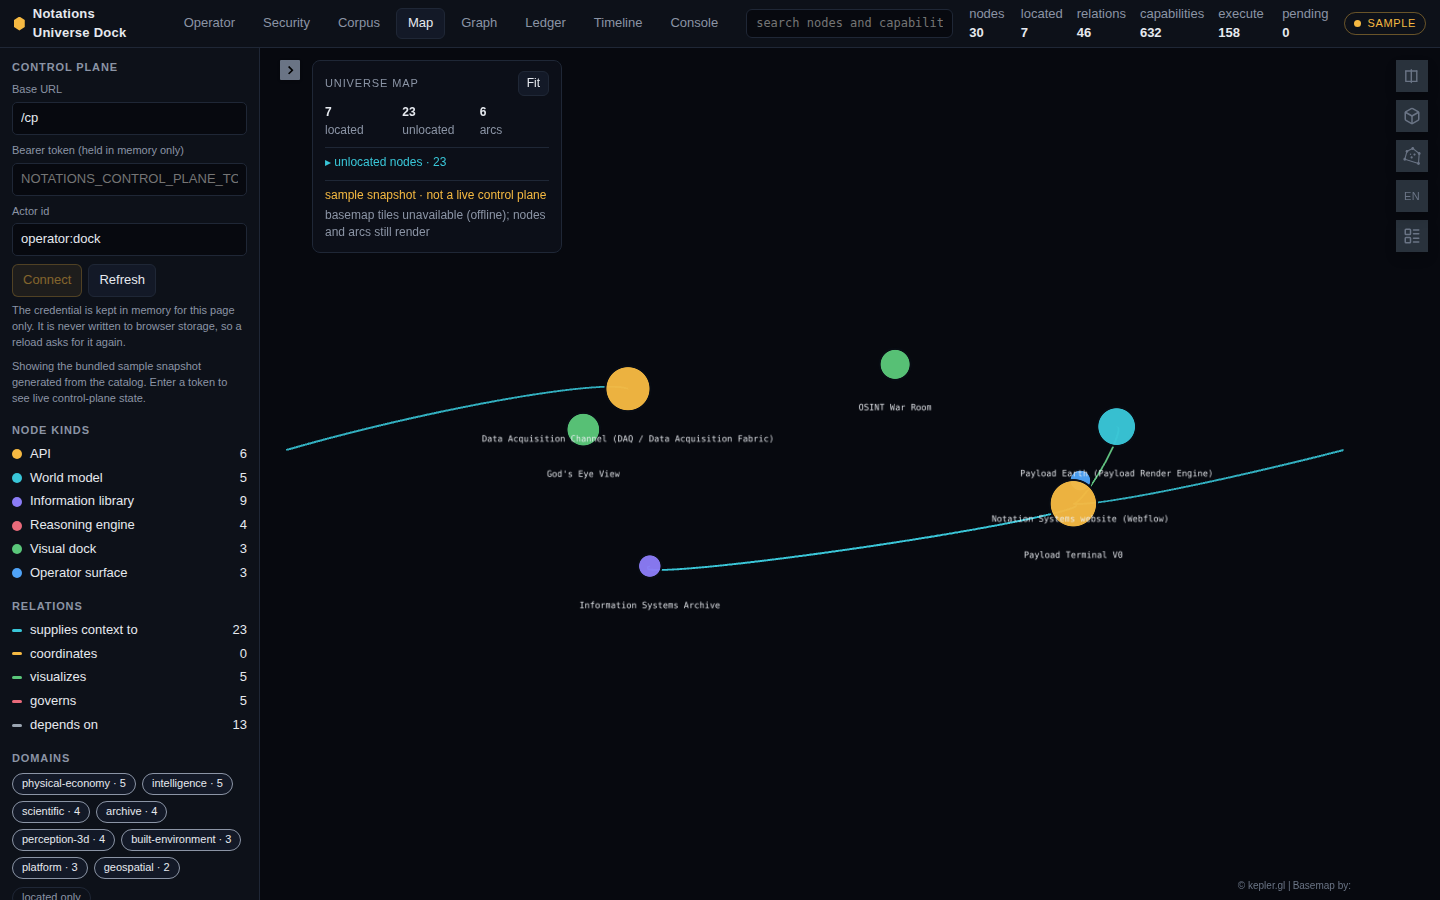
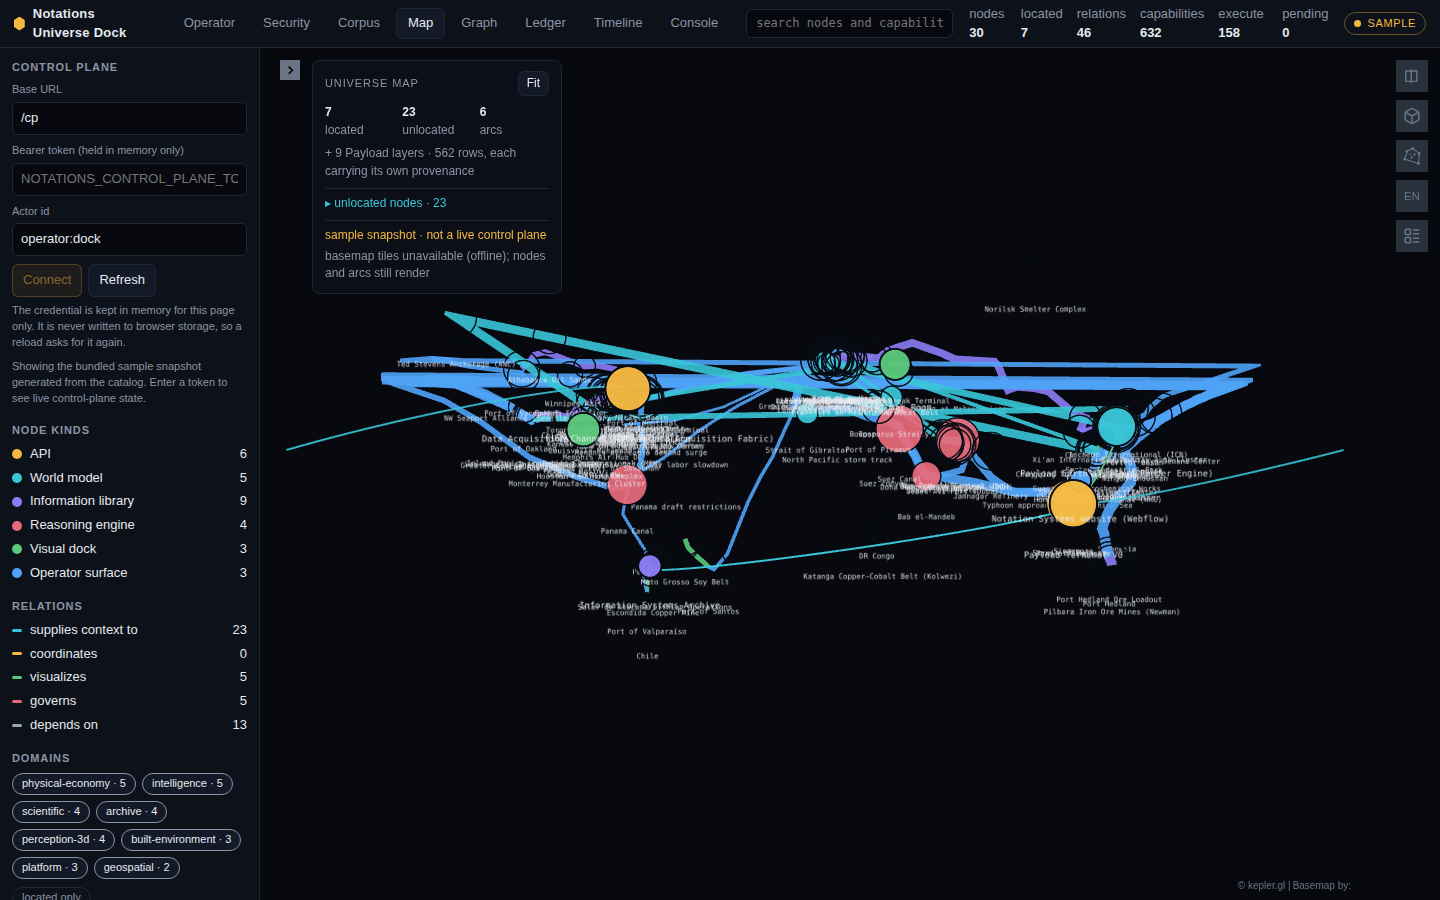
feat(dock): draw the Payload layers the map was documented as drawing
The extractors produced them — 562 rows across nine layers, each carrying
its own provenance. The sync script copied them into
`public/layers/payload/` before every dev run, build and test. The loader
that reads them, the Kepler config that styles them, the tooltip fields
that expose their provenance: all written, all tested. Nothing called any
of it. `loadPayloadLayers` and `tooltipFields` had no callers anywhere in
the tree, and MapLens built its data from the snapshot alone, while
README.md, dock/README.md and docs/PAYLOAD_FIRST.md all described a map
lens that renders facilities, corridors, chokepoints, flows, disruptions
and coverage.

So the estate's one worked example of the discipline it is built on was
built, shipped, and never seen. It draws now: 9 layers, 562 rows, and the
overlay says so. Every layer's tooltip carries `provenance`, and `known_at`
where the rows have it, so "is this real?" and "when was it knowable?" are
answered by hovering a row rather than by reading a manifest.

Absence stays graceful. A tree that has not run `npm run sync` draws the
universe and says the layers are not loaded; a manifest entry whose file
failed to load is skipped rather than drawn empty.

`LayerEntry` also gained the two fields the manifest has carried since the
provenance work — `basis` and `provenance_fields` — so the dock's type
matches the file it reads.

Verified: control-plane 40/40, ecosystem 36/36, dock 37/37, catalog 0
[…]

diff --git a/dock/test/layers.test.ts b/dock/test/layers.test.ts
@@ -1,7 +1,8 @@
 import { readFileSync } from 'node:fs';
 import path from 'node:path';
 import { describe, expect, it } from 'vitest';
-import { datasetIdFor, layerConfig, rowsToDataset, type LayerManifest, type Row } from '../src/model/layers';
+import { datasetIdFor, layerConfig, rowsToDataset, withPayloadLayers, type LayerManifest, type Row } from '../src/model/layers';
+import type { KeplerDataset } from '../src/model/kepler';
 
 const root = path.resolve(__dirname, '../../ecosystem/payload');
 const manifest = JSON.parse(readFileSync(path.join(root, 'layers.json'), 'utf8')) as LayerManifest;
@@ -34,5 +35,55 @@ describe('payload layer manifest', () => {
     const real = manifest.layers.filter((l) => l.real).map((l) => l.id);
     expect(real).toEqual(expect.arrayContaining(['comtrade-flows', 'archive-coverage', 'submarine-cables', 'nuclear-facilities']));
     expect(manifest.layers.find((l) => l.id === 'earth-facilities')?.real).toBe(false);
+  });
+});
+
+describe('folding the Payload layers into the universe map', () => {
+  const manifest = JSON.parse(readFileSync(path.resolve(__dirname, '../../ecosystem/payload/layers.json'), 'utf8')) as LayerManifest;
+
+  type Bundle = {
+    datasets: KeplerDataset[];
+    config: { version: string; config: { visState: { layers: unknown[]; interactionConfig: { tooltip: { enabled: boolean; fieldsToShow: Record<string, unknown> } } } } };
+    located: number; arcs: number; unlocated: unknown[];
+  };
+  const universe = (): Bundle => ({
+    datasets: [{ info: { id: 'universe-nodes', label: 'Nodes' }, data: { fields: [], rows: [[1]] } }],
+    config: { version: 'v1', config: { visState: { layers: [{ id: 'universe-nodes-points' }], interactionConfig: { tooltip: { enabled: true, fieldsToShow: { 'universe-nodes': [] } } } } } },
+    located: 7, arcs: 5, unlocated: [],
+  });
+  const load = (layers: LayerManifest['layers']) => ({
+    manifest,
+    datasets: new Map<string, KeplerDataset>(layers.map((l) => [l.id, { info: { id: datasetIdFor(l), label: l.name }, data: { fields: [], rows: [[1], [2]] } }])),
+  });
+
+  it('adds one Kepler layer and one dataset per loaded manifest entry', () => {
+    const folded = withPayloadLayers(universe(), load(manifest.layers));
+    expect(folded.payloadLayers).toBe(manifest.layers.length);
+    expect(folded.payloadRows).toBe(manifest.layers.length * 2);
+    expect(folded.datasets).toHaveLength(1 + manifest.layers.length);
+    expect(folded.config.config.visState.layers).toHaveLength(1 + manifest.layers.length);
+  });
+
+  it('shows every layer its provenance in the tooltip, which is what makes "is this real?" a per-row query', () => {
+    const folded = withPayloadLayers(universe(), load(manifest.layers));
+    const shown = folded.config.config.visState.interactionConfig.tooltip.fieldsToShow as Record<string, Array<{ name: string }>>;
+    for (const layer of manifest.layers) {
+      const fields = shown[datasetIdFor(layer)]!.map((f) => f.name);
+      expect(fields).toContain('provenance');
+      if (layer.provenance_fields.includes('known_at')) expect(fields).toContain('known_at');
+    }
+  });
+
+  it('draws the universe unchanged when the layers are not there', () => {
+    const bare = withPayloadLayers(universe(), null);
+    expect(bare.payloadLayers).toBe(0);
+    expect(bare.datasets).toHaveLength(1);
+    expect(bare.config.config.visState.layers).toHaveLength(1);
+  });
+
+  it('skips a manifest entry whose file failed to load rather than drawing an empty layer', () => {
+    const folded = withPayloadLayers(universe(), load([manifest.layers[0]!]));
+    expect(folded.payloadLayers).toBe(1);
+    expect(folded.config.config.visState.layers).toHaveLength(2);
   });
 });

diff --git a/dock/src/model/layers.ts b/dock/src/model/layers.ts
@@ -9,7 +9,15 @@ export interface LayerEntry {
   geometry: 'point' | 'arc' | 'path' | 'polygon';
   file: string;
   provenance: string;
+  /**
+   * What the rows rest on. `real` is derived from it — a layer is real when its basis is
+   * not `synthetic` — rather than asserted beside it, because a boolean forced curated
+   * data to claim to be a capture.
+   */
+  basis: 'capture' | 'manifest' | 'curated' | 'synthetic';
   real: boolean;
+  /** Which row provenance fields this layer's rows actually carry. */
+  provenance_fields: string[];
   default_visible: boolean;
   time_field?: string;
   kepler: {
@@ -111,4 +119,49 @@ export async function loadPayloadLayers(base = `${import.meta.env.BASE_URL}layer
     } catch (e) { errors.push(`${layer.id}: ${(e as Error).message}`); }
   }));
   return { manifest, datasets, errors };
+}
+
+/**
+ * Fold the Payload layers into a universe map bundle.
+ *
+ * The extractors have always produced these — 562 rows across nine layers, each carrying
+ * its own provenance — the sync script has always copied them into `public/layers/payload/`,
+ * and `loadPayloadLayers` has always been able to read them. Nothing called it. The Map
+ * lens drew nodes and relation arcs while three documents said it drew the Payload
+ * layers, so the estate's one worked example of per-row provenance was built, shipped and
+ * never seen.
+ *
+ * Every layer's tooltip carries `provenance`, and `known_at` where the rows have it, so
+ * "is this real?" and "when was it knowable?" are answerable by hovering a row rather
+ * than by reading a manifest.
+ */
+export function withPayloadLayers<T extends { datasets: KeplerDataset[]; config: { config: { visState: { layers: unknown[]; interactionConfig: { tooltip: { fieldsToShow: Record<string, unknown> } } } } } }>(
+  bundle: T,
+  loaded: { manifest: LayerManifest; datasets: Map<string, KeplerDataset> } | null,
+): T & { payloadLayers: number; payloadRows: number } {
+  if (!loaded || !loaded.datasets.size) return { ...bundle, payloadLayers: 0, payloadRows: 0 };
+  const present = loaded.manifest.layers.filter((layer) => loaded.datasets.has(layer.id));
+  const datasets = present.map((layer) => loaded.datasets.get(layer.id)!);
+  const fieldsToShow: Record<string, unknown> = { ...bundle.config.config.visState.interactionConfig.tooltip.fieldsToShow };
+  for (const layer of present) fieldsToShow[datasetIdFor(layer)] = tooltipFields(layer);
+  return {
+    ...bundle,
+    datasets: [...bundle.datasets, ...datasets],
+    config: {
+      ...bundle.config,
+      config: {
+        ...bundle.config.config,
+        visState: {
+          ...bundle.config.config.visState,
+          layers: [...bundle.config.config.visState.layers, ...present.map((layer) => layerConfig(layer))],
+          interactionConfig: {
+            ...bundle.config.config.visState.interactionConfig,
+            tooltip: { ...bundle.config.config.visState.interactionConfig.tooltip, fieldsToShow },
+          },
+        },
+      },
+    },
+    payloadLayers: present.length,
+    payloadRows: datasets.reduce((sum, d) => sum + d.data.rows.length, 0),
+  };
 }

diff --git a/dock/src/lenses/MapLens.tsx b/dock/src/lenses/MapLens.tsx
@@ -3,6 +3,8 @@ import { useDispatch, useSelector, useStore } from 'react-redux';
 import { KeplerGl } from '@kepler.gl/components';
 import { addDataToMap, fitBounds, removeDataset, wrapTo } from '@kepler.gl/actions';
 import { universeMapBundle } from '../model/kepler';
+import { loadPayloadLayers, withPayloadLayers, type LayerManifest } from '../model/layers';
+import type { KeplerDataset } from '../model/kepler';
 
 type MapConfig = Parameters<typeof addDataToMap>[0]['config'];
 import type { LensProps } from './types';
@@ -44,7 +46,19 @@ export function MapLens({ dock, filtered, selected, selectedNode, onSelect }: Le
     return () => ro.disconnect();
   }, []);
 
-  const bundle = useMemo(() => universeMapBundle(filtered), [filtered]);
+  // The Payload layers are fetched once from the dock's own public dir. Absent (a dev
+  // tree that has not run `npm run sync`) is not an error: the map draws the universe and
+  // the overlay says how many layers it has.
+  const [payload, setPayload] = useState<{ manifest: LayerManifest; datasets: Map<string, KeplerDataset> } | null>(null);
+  useEffect(() => {
+    let stopped = false;
+    void loadPayloadLayers()
+      .then((loaded) => { if (!stopped) setPayload({ manifest: loaded.manifest, datasets: loaded.datasets }); })
+      .catch(() => { if (!stopped) setPayload(null); });
+    return () => { stopped = true; };
+  }, []);
+
+  const bundle = useMemo(() => withPayloadLayers(universeMapBundle(filtered), payload), [filtered, payload]);
   const bounds = useMemo(() => locatedBounds(filtered.nodes), [filtered]);
   const fit = useCallback(() => { if (bounds) dispatch(wrapTo(MAP_ID, fitBounds(bounds))); }, [bounds, dispatch]);
 
@@ -113,6 +127,8 @@ export function MapLens({ dock, filtered, selected, selectedNode, onSelect }: Le
         located={bundle.located}
         unlocated={bundle.unlocated}
         arcs={bundle.arcs}
+        payloadLayers={bundle.payloadLayers}
+        payloadRows={bundle.payloadRows}
         mode={dock.mode}
         selected={selected}
         onSelect={onSelect}

diff --git a/dock/src/lenses/map/MapOverlay.tsx b/dock/src/lenses/map/MapOverlay.tsx
@@ -4,10 +4,13 @@ import { KIND_COLOR, KIND_LABEL, type SnapshotNode } from '../../model/types';
 
 const num: React.CSSProperties = { fontVariantNumeric: 'tabular-nums', color: 'var(--text)', fontWeight: 600 };
 
-export function MapOverlay({ located, unlocated, arcs, mode, selected, onSelect, onFit, basemap }: {
+export function MapOverlay({ located, unlocated, arcs, payloadLayers, payloadRows, mode, selected, onSelect, onFit, basemap }: {
   located: number;
   unlocated: SnapshotNode[];
   arcs: number;
+  /** Payload layers folded into the map, and the rows they carry. */
+  payloadLayers: number;
+  payloadRows: number;
   mode: DockMode;
   selected: string | null;
   onSelect: (nodeId: string | null) => void;
@@ -27,6 +30,11 @@ export function MapOverlay({ located, unlocated, arcs, mode, selected, onSelect,
         <div><div style={num}>{arcs}</div><div style={{ color: 'var(--muted)' }}>arcs</div></div>
       </div>
       {arcs === 0 && located > 0 && <div style={{ color: 'var(--muted)', marginTop: 6 }}>Arcs need both ends located.</div>}
+      <div style={{ color: 'var(--muted)', marginTop: 6 }}>
+        {payloadLayers > 0
+          ? <>+ {payloadLayers} Payload layers · {payloadRows} rows, each carrying its own provenance</>
+          : <>No Payload layers loaded. Run <code>npm run sync</code> in <code>dock/</code>.</>}
+      </div>
       {unlocated.length > 0 && (
         <div style={{ marginTop: 8, borderTop: '1px solid var(--line)', paddingTop: 6 }}>
           <button className="btn small" style={{ background: 'transparent', border: 'none', padding: 0, color: 'var(--cyan)' }} onClick={() => setOpen((o) => !o)} aria-expanded={open}>

diff --git a/dock/test/events.test.ts b/dock/test/events.test.ts
@@ -72,6 +72,6 @@ describe('reading the journal', () => {
       expect(record.event.commandHash).not.toBe('');
       expect(record.recordHash).toMatch(/^r\d+$/);
     }
-    expect(res.events.slice(1).every((r, i) => r.previousHash === res.events[i].recordHash)).toBe(true);
+    expect(res.events.slice(1).every((r, i) => r.previousHash === res.events[i]!.recordHash)).toBe(true);
   });
 });
